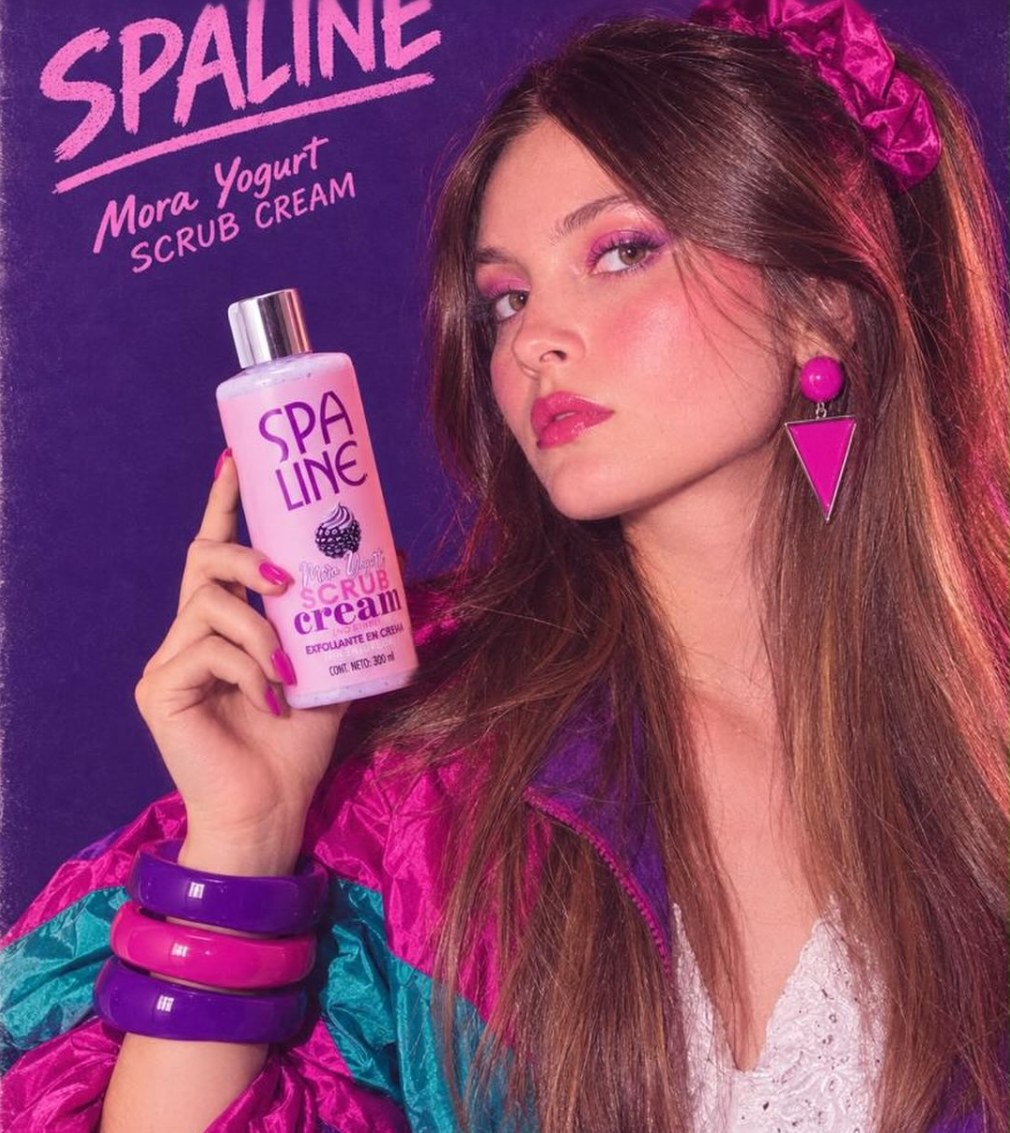
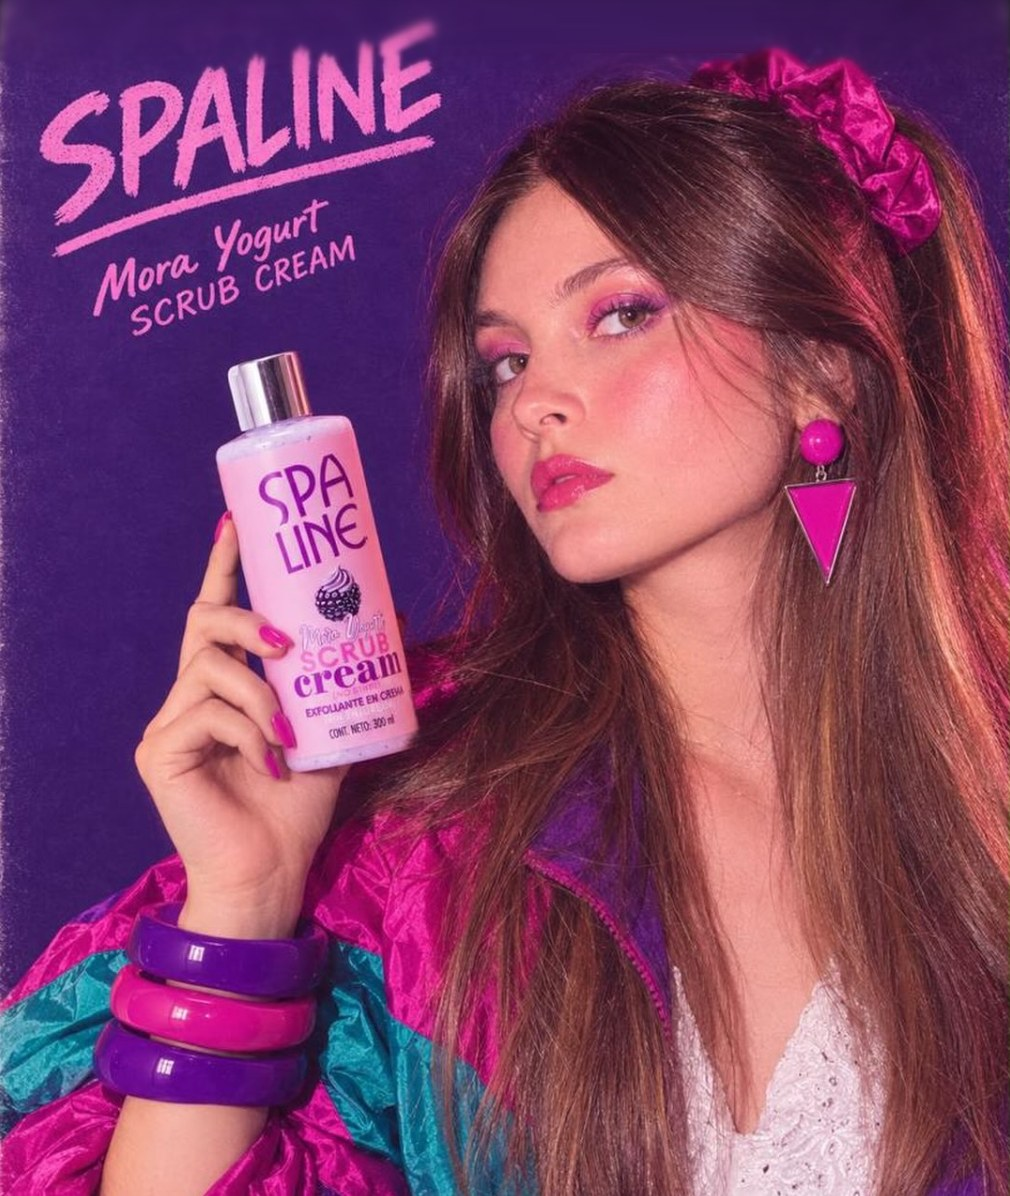
Nuestra marca: foto de la modelo recortada más arriba para que se vea SPALINE completo
Claude-Session: https://claude.ai/code/session_014aU3dHyZbUKg5VEtKSBYbh

diff --git a/spaline/index.html b/spaline/index.html
@@ -69,8 +69,8 @@ h2{font-size:clamp(38px,6vw,64px)}
 
 /* Nuestra marca */
 .brand{padding-block:48px;display:grid;grid-template-columns:.85fr 1.15fr;gap:40px;align-items:center}
-.brand figure{margin:0;border-radius:28px;overflow:hidden;aspect-ratio:1010/1133;background:var(--surface)}
-.brand figure img{width:100%;height:100%;object-fit:cover;display:block}
+.brand figure{margin:0;border-radius:28px;overflow:hidden;aspect-ratio:1010/1196;background:var(--surface)}
+.brand figure img{width:100%;height:100%;object-fit:cover;object-position:top;display:block}
 .brand p{font-size:18px;margin:16px 0 0;max-width:52ch}
 .brand strong{color:var(--accent)}
 
@@ -316,7 +316,7 @@ footer{border-top:1px solid var(--line);padding-block:20px;font-size:14px;color:
 </section>
 
 <section class="wrap brand reveal" id="marca" aria-labelledby="marca-title">
-  <figure><img src="img/modelo-mora-yogurt.jpg" alt="Modelo con look ochentero sostiene el Scrub Cream Mora Yogurt de Spa Line" width="1010" height="1133" loading="lazy"></figure>
+  <figure><img src="img/modelo-mora-yogurt.jpg" alt="Modelo con look ochentero sostiene el Scrub Cream Mora Yogurt de Spa Line" width="1010" height="1196" loading="lazy"></figure>
   <div>
     <div class="eyebrow">Nuestra marca</div>
     <h2 id="marca-title">Más de dos décadas contigo</h2>
